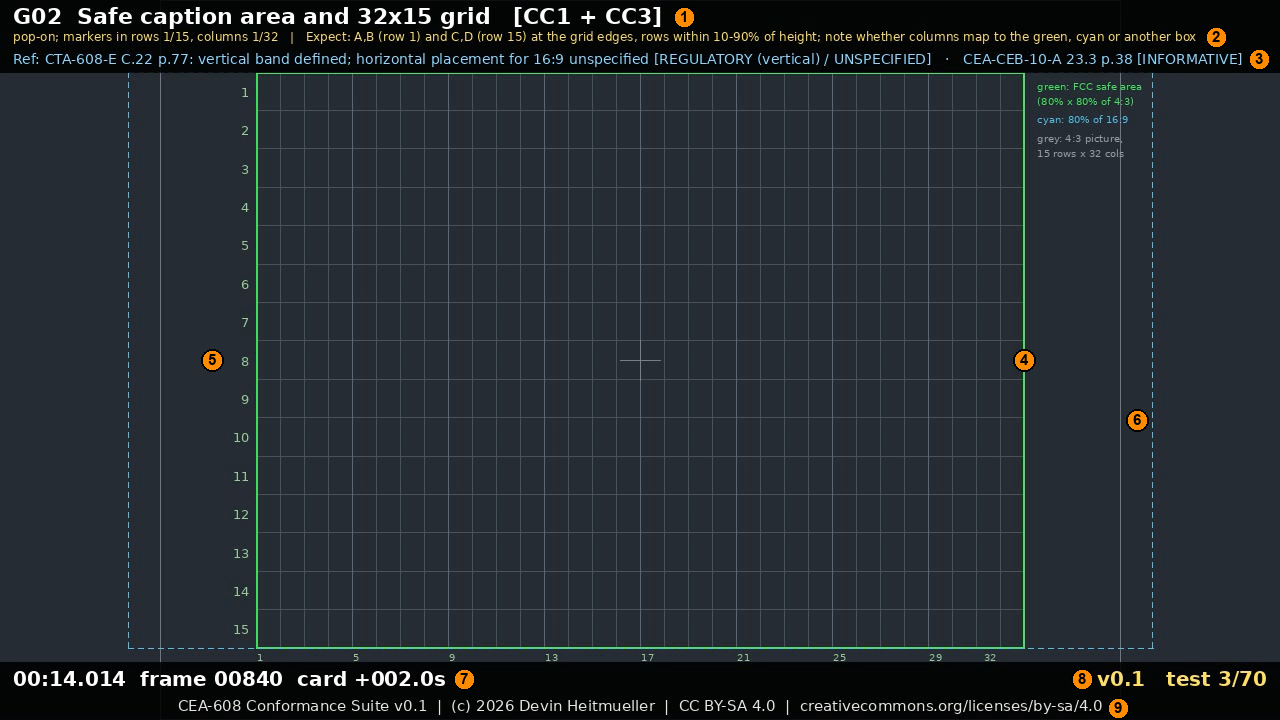
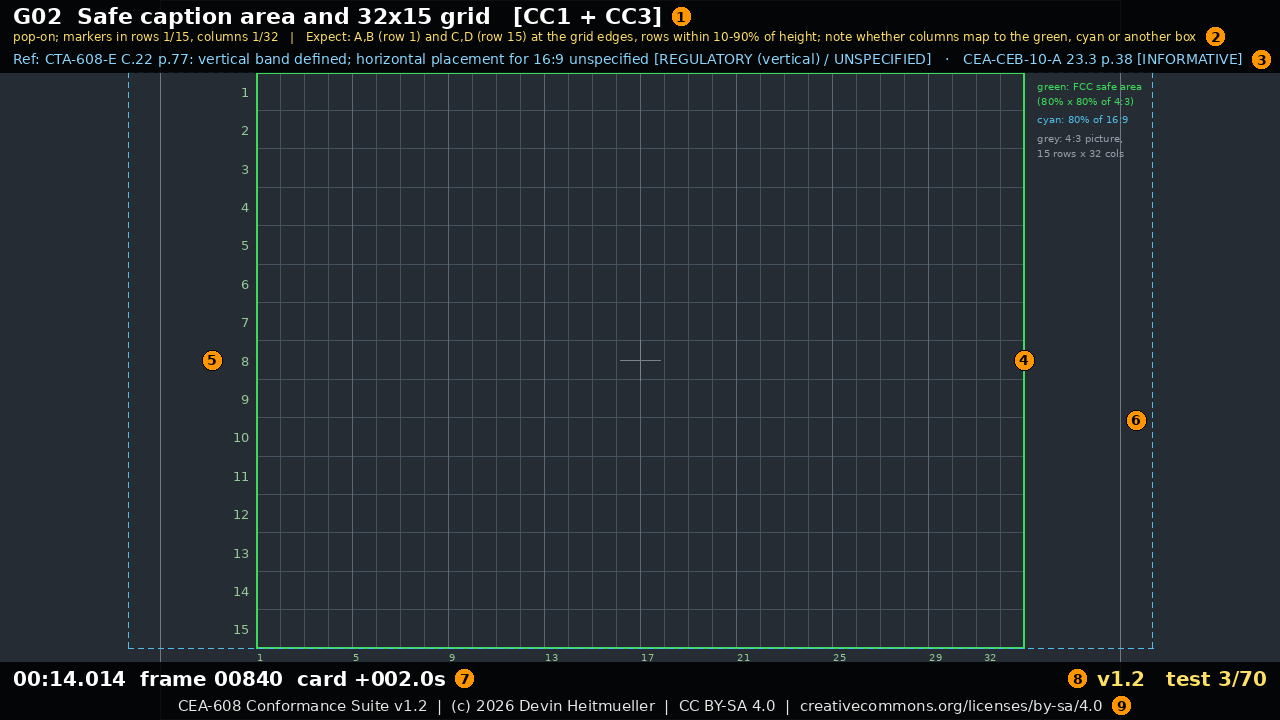
Generate the annotated screenshot of the README from the build
images/test-pattern-720p59.png was made by hand from an early build: it
showed v0.1, and "test 3/70" would be wrong as soon as a card is added or
moved.  screenshot.py draws the frame of a card (G02, chosen by its id)
with the code that draws the video, so the card, its number, the counter,
the timer and the banner come from the schedule, and places the nine
callouts of the README from the layout of the frame (the end of each
banner line, the safe area, the grid, the outlines).

The image carries the card, the test number and the text of the banner in
a PNG text chunk, and screenshot.py --check compares that with the
current cards: not the pixels, so it does not depend on the fonts of the
machine, and not the version label.  The release workflow runs it, so a
release can not be made with a stale image.  It does not notice a change
to the drawing code: LAYOUT in screenshot.py is bumped for that.

The image is regenerated here with the version label v1.2 and DejaVu Sans,
which is what the runner of the workflow has.  --check was run on it, on
another card (fails, with the differences), and on the old image (fails:
no data); five other cards render.

diff --git a/screenshot.py b/screenshot.py
@@ -1,0 +1,167 @@
+#!/usr/bin/env python3
+# SPDX-License-Identifier: GPL-2.0-or-later
+# Copyright (C) 2026 Devin Heitmueller <devin.heitmueller@gmail.com>
+"""The annotated screenshot of the README (images/test-pattern-720p59.png): a frame of one card of the 720p59 stream
+with the numbered callouts that the README explains.
+
+The frame is drawn by the same code as the video (build.py): the card number, the test counter, the timer and the
+text of the banner all come from the schedule, so they follow the cards when they change. The card is chosen by its id
+(G02), not by its number. The callouts are placed from the layout of the frame (the end of each line of the banner,
+the safe area, the grid, the outlines).
+
+  python screenshot.py                 write images/test-pattern-720p59.png
+  python screenshot.py --check         exit 1 if the committed image does not show the current cards (see below)
+  options: --card G02  --at 2.0 (seconds into the card)  --out FILE  --version-label LABEL
+
+The image has the data it was made from in a PNG text chunk (card id, test number and count, time into the card, the text
+of the banner). --check compares it with the current cards, not the pixels, so it does not depend on the fonts of the
+machine, and it does not look at the version label. Change LAYOUT when the drawing of the frame or of the callouts changes.
+For the look of the released streams build on Linux or point CEA608_FONT and CEA608_FONT_BOLD at DejaVu Sans.
+"""
+import argparse
+import json
+import os
+import sys
+
+import numpy as np
+from PIL import Image, ImageDraw, ImageFont, PngImagePlugin
+
+import build
+import testplan
+from cea608 import sec2f
+
+HERE = os.path.dirname(os.path.abspath(__file__))
+DEFAULT_OUT = os.path.join(HERE, "images", "test-pattern-720p59.png")
+FORMAT = "720p59"
+LAYOUT = 1                  # bump when the drawing of the frame or of the callouts changes
+TEXT_KEY = "CEA608-screenshot"
+ORANGE, BLACK = (255, 150, 0), (0, 0, 0)
+
+
+def data_of(card, at, label=None):
+    """What the image shows, without drawing it: {card, test, count, at, banner}; also the schedule (for the picture)."""
+    testplan.apply_format(FORMAT)
+    build.VERSION[0] = label or build.git_version()
+    f1, f2, starts, total, _ = build.schedule()
+    ids = [s.id for s in build.SEGMENTS]
+    if card not in ids:
+        sys.exit(f"no card {card} in the plan; the cards are {', '.join(ids)}")
+    si = ids.index(card)
+    seg = build.SEGMENTS[si]
+    # the third line of a card that has no reference shows the version label: it is not what the image is checked on
+    banner = list(build.banner_lines(seg)) if seg.refs else list(build.banner_lines(seg))[:2]
+    data = {"layout": LAYOUT, "format": FORMAT, "card": card, "test": f"{si + 1}/{len(ids)}", "at": at, "banner": banner}
+    return data, si, seg, starts
+
+
+def textlen(draw, text, font):
+    return draw.textlength(text, font=font)
+
+
+def callouts(w, h, seg, si, n, tl, timer):
+    """[(number, x, y)] of the nine callouts of the README, placed from the layout of the 16:9 frame (build.py)."""
+    k = w / 1920
+    d = ImageDraw.Draw(Image.new("RGB", (w, h)))
+    mw = w - 40 * k
+    l1, l2, l3 = build.banner_lines(seg)
+    f1 = build.fit(d, l1, build.FONT_B, int(34 * k), mw)
+    f2 = build.fit(d, l2, build.FONT_U, int(25 * k), mw)
+    f3 = build.fit(d, l3, build.FONT_U, int(21 * k), mw)
+    gap = 19 * k * 1.5
+    bot = int(88 * k)
+    out = [
+        (1, 20 * k + textlen(d, l1, f1) + gap, 4 * k + f1.size * 0.62),
+        (2, 20 * k + textlen(d, l2, f2) + gap, 44 * k + f2.size * 0.62),
+        (3, 20 * k + textlen(d, l3, f3) + gap, 76 * k + f3.size * 0.62),
+        (4, 1536 * k, h / 2),                                         # right edge of the safe area (green)
+        (5, 384 * k - 44 * k * 1.5, h / 2),                           # the row numbers, left of the grid
+        (6, 1728 * k - 16 * k * 1.5, h / 2 + 60 * k * 1.5),           # right edge of the 80% outline (cyan)
+    ]
+    tfont = ImageFont.truetype(build.FONT_B, tl["size"])
+    out.append((7, tl["origin"][0] + textlen(d, timer, tfont) + gap, h - bot + 8 * k + tfont.size * 0.55))
+    right = f"{build.VERSION[0]}   test {si + 1}/{n}"
+    rfont = build.fit(d, right, build.FONT_B, int(30 * k), w - 1130 * k)
+    out.append((8, w - 20 * k - textlen(d, right, rfont) - gap, h - bot + 8 * k + rfont.size * 0.55))
+    ft = build.footer()
+    ffont = build.fit(d, ft, build.FONT_U, int(23 * k), mw)
+    out.append((9, (w + textlen(d, ft, ffont)) / 2 + gap, h - 34 * k + ffont.size * 0.55))
+    return out
+
+
+def draw_callouts(img, points, w):
+    k = w / 1920
+    r = 15 * k
+    d = ImageDraw.Draw(img)
+    font = ImageFont.truetype(build.FONT_B, int(22 * k))
+    for num, x, y in points:
+        d.ellipse([x - r, y - r, x + r, y + r], fill=ORANGE, outline=BLACK, width=max(1, int(2 * k)))
+        s = str(num)
+        d.text((x - textlen(d, s, font) / 2, y - font.size * 0.55), s, font=font, fill=BLACK)
+
+
+def render(card, at, label):
+    data, si, seg, starts = data_of(card, at, label)
+    fmt = build.FORMATS[FORMAT]
+    cw, ch = fmt["canvas"]
+    n = len(build.SEGMENTS)
+    base, tl = build.make_base_16x9(build.graticule_16x9(cw, ch), seg, si, n, cw, ch)
+    ppf = fmt["ppf"]
+    vn, vd = fmt["vfps"]
+    f0 = ppf * sec2f(starts[si])
+    f = ppf * sec2f(starts[si] + at)
+    timer = build.timer_text(f, f0, vn, vd)
+    x0, y0, x1, y1 = tl["box"]
+    frame = build.draw_timer(base, Image.fromarray(base[y0:y1, x0:x1]), tl, ImageFont.truetype(build.FONT_B, tl["size"]), timer)
+    img = Image.fromarray(np.asarray(frame))
+    draw_callouts(img, callouts(cw, ch, seg, si, n, tl, timer), cw)
+    return img, data
+
+
+def png_info(data):
+    info = PngImagePlugin.PngInfo()
+    info.add_text(TEXT_KEY, json.dumps(data, sort_keys=True, ensure_ascii=False))
+    return info
+
+
+def check(path, card, at):
+    """0 if the image at path was made from the current cards, else 1 (with the differences printed)."""
+    if not os.path.exists(path):
+        print(f"{path} does not exist; run python screenshot.py")
+        return 1
+    data, *_ = data_of(card, at)
+    with Image.open(path) as im:
+        raw = im.text.get(TEXT_KEY) if hasattr(im, "text") else None
+    if raw is None:
+        print(f"{path} has no {TEXT_KEY} data; run python screenshot.py")
+        return 1
+    have = json.loads(raw)
+    diffs = [f"  {k}: image {have.get(k)!r}, cards {data.get(k)!r}" for k in sorted(set(have) | set(data))
+             if have.get(k) != data.get(k)]
+    if diffs:
+        print(f"{path} is out of date (run python screenshot.py and commit it):")
+        print("\n".join(diffs))
+        return 1
+    print(f"{path} shows the current card {card} ({data['test']})")
+    return 0
+
+
+def main():
+    ap = argparse.ArgumentParser(description=__doc__.split("\n\n")[0])
+    ap.add_argument("--card", default="G02", help="id of the card to show (default G02)")
+    ap.add_argument("--at", type=float, default=2.0, help="seconds into the card (default 2.0)")
+    ap.add_argument("--out", default=DEFAULT_OUT)
+    ap.add_argument("--version-label", default=None,
+                    help="the version burned in the frame (default: git tag at HEAD, else git rev); not checked")
+    ap.add_argument("--check", action="store_true", help="only check that the committed image is current")
+    a = ap.parse_args()
+    if a.check:
+        return check(a.out, a.card, a.at)
+    img, data = render(a.card, a.at, a.version_label)
+    os.makedirs(os.path.dirname(a.out) or ".", exist_ok=True)
+    img.save(a.out, pnginfo=png_info(data), optimize=True)
+    print(f"wrote {a.out}: card {a.card}, test {data['test']}, {a.at:g} s into the card")
+    return 0
+
+
+if __name__ == "__main__":
+    sys.exit(main())

diff --git a/DEVELOPING.md b/DEVELOPING.md
@@ -18,7 +18,8 @@ If you want to send changes back, make a release or label a derivative stream, s
 | `test_reference.py` | Checks that decoder model against the generator's own intended layout for the static pop-on cards (`python test_reference.py`); run it after changing `reference.py` or a card |
 | `TESTS.md` | Generated at every build from `testplan.py` (covering both formats). **Committed**, because the README links to it and it is browsable on GitHub: commit the regenerated copy with any change to the plan; the release workflow fails if it is stale |
 | `cards.json` | Machine-readable card list (ids, start times, durations, channels, references, expected results, per-format variants), generated at every build. **Not committed** (git-ignored); the validation tooling reads it after a build |
-| `images/test-pattern-720p59.png` | The annotated screenshot used in the README (a frame from card G02, callouts added). |
+| `screenshot.py` | Generates the annotated screenshot of the README from the build: the frame of a card (G02) drawn by the same code as the video, with the nine numbered callouts placed from the layout; `--check` tells whether the committed image shows the current cards (`python screenshot.py`, `python screenshot.py --check`) |
+| `images/test-pattern-720p59.png` | The annotated screenshot used in the README (a frame from card G02, callouts added), made by `screenshot.py`. It has the card, the test number and the text of the banner it was made from in a PNG text chunk. **Committed**: regenerate it and commit it after changing the cards or the layout of the frame (the release workflow runs `--check`) |
 | `requirements.txt` | Python packages |
 
 ## Dependencies
@@ -184,4 +185,8 @@ def p01(c, t0):                                                            # c: 
   (MacCaption)** file - per-frame `cc_data` as text, which unlike SCC can carry both fields - and embedding that
   file in a separate step would also make field 2 inspectable and reusable.
 * CEA-708 (DTVCC) services, XDS and Text mode are not generated.
-* The annotated screenshots in `images/` are stills from particular builds; refresh them if the layout changes.
+* The annotated screenshot in `images/` is generated by `screenshot.py`, and the release workflow checks that the committed
+  copy shows the current cards (card, test number, text of the banner), not the pixels. The check does not notice a change
+  to the layout code: bump `LAYOUT` in `screenshot.py` when the drawing of the frame or of the callouts changes. The image
+  carries the version label of the build that made it (the latest release when it is regenerated), and its look depends on the
+  fonts: for the look of the released streams use DejaVu Sans (`CEA608_FONT`, `CEA608_FONT_BOLD`).

diff --git a/CHANGELOG.md b/CHANGELOG.md
@@ -12,6 +12,9 @@ Not released yet.
   streams (CC1 and CC2) as an SCC file with drop-frame timecode, attached to the release as `*-field1.scc`: the same bytes
   as the streams at the same times, for tools that read SCC. Field 2 (CC3 and CC4) cannot be carried in SCC and is not in the
   file. The streams and the cards are unchanged.
+* **The annotated screenshot of the README is generated by the build** (`python screenshot.py`): the card, its number, the
+  test counter and the banner come from the schedule, so they follow the cards when the cards change, and the release
+  workflow checks that the committed image is current (`--check`). Documentation only; the streams and the cards are unchanged.
 
 * **MP4 version of each stream** (`build.py --mp4`, H.264 only). A constant-quality encode (CRF 21, about 0.4 Mbps, AAC
   audio) of the same captioned video, roughly a tenth of the size of the 4 Mbps constant-bit-rate transport stream
